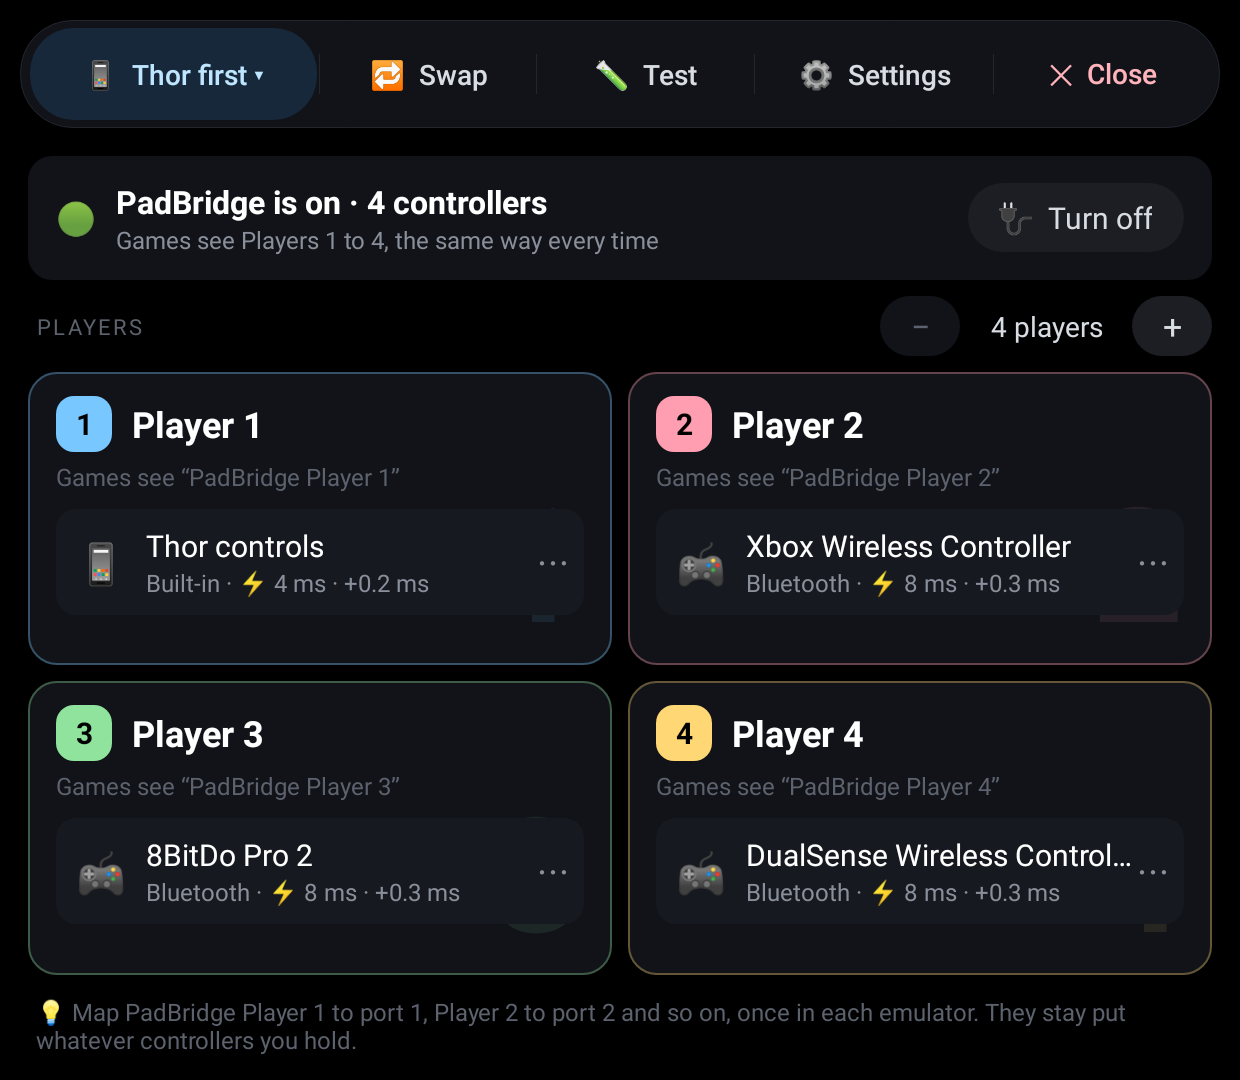
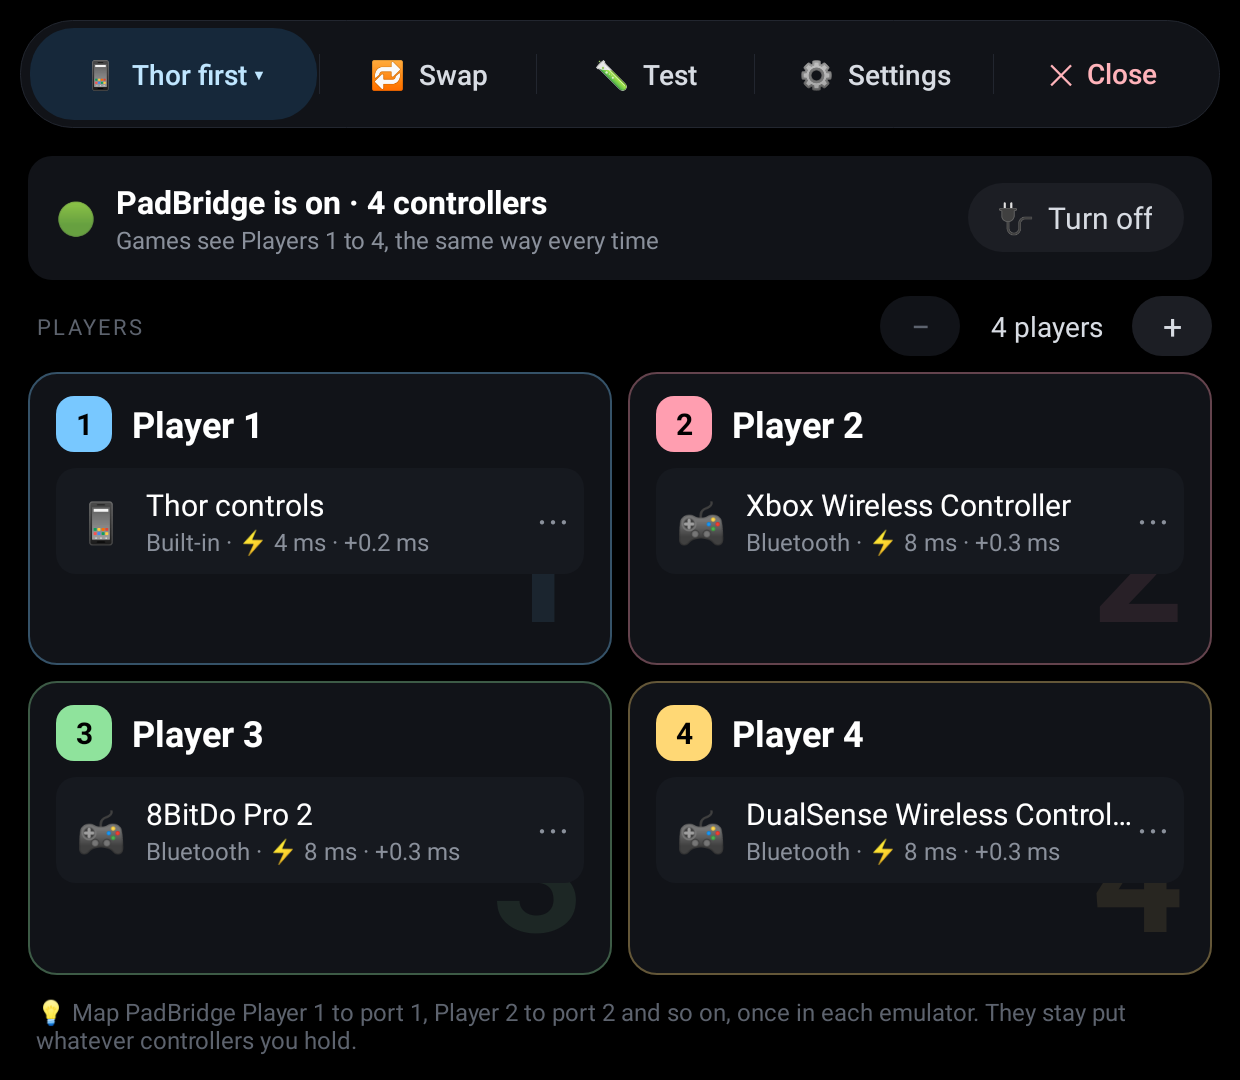
1.0.2: every players change reaches the engine; roomier compact cards (#3)
* PadBridge 1.0: Thor controls and external controllers at once, with fixed players

A Shizuku-started engine takes over the Thor's built-in controls and any
connected controllers and drives virtual "PadBridge Player 1-4" pads made
with Android's uinput tool, so emulators keep one mapping whatever
controller is in use. Thor first / Controller first / Both Player 1 modes,
Swap, per-controller pins and Nintendo layout, a live controller test on
the top screen, and ThorPad-style Settings, haptics and updates.

Claude-Session: https://claude.ai/code/session_01QHzaHtdzWEgjSKUpixgTQA

* Up to 8 players: player grid, players stepper, tap-two swap, number chips

- MAX_PLAYERS 4 -> 8, with eight player colors
- Main screen: 2 side by side, 3 in a row, 4 in a square, 5-8 in two rows of mini cards
- PLAYERS - / + sets how many player pads are always ready; the engine removes spare pads when lowered
- Swap with more than two players: tap two players to swap (pins their controllers)
- Controller menu: a numbered chip per player instead of a long list
- Test screen fits up to 8 pads; engine test for an 8-player party
- README, release notes and screenshots (four, eight, swap)

Claude-Session: https://claude.ai/code/session_01QHzaHtdzWEgjSKUpixgTQA

* Rumble, per-controller settings, speed readout, About and license

- Rumble: player pads register with ff_effects_max; the engine reads the uinput tool's
[…]

diff --git a/app/src/main/java/com/padbridge/Engine.java b/app/src/main/java/com/padbridge/Engine.java
@@ -29,7 +29,7 @@ import org.json.JSONObject;
  */
 public final class Engine implements PhysicalPad.Listener, VirtualPads.Listener {
     /** Bumped when the engine changes; the app restarts an engine that doesn't match. */
-    static final int VERSION = 4;
+    static final int VERSION = 5;
     /** struct input_event: 24 bytes with 64-bit timestamps, 16 with 32-bit ones. */
     static final int EVENT_SIZE = System.getProperty("os.arch", "").contains("64") ? 24 : 16;
     private static final int BITS_PER_WORD = EVENT_SIZE == 24 ? 64 : 32;
@@ -37,7 +37,7 @@ public final class Engine implements PhysicalPad.Listener, VirtualPads.Listener 
     private final File dir, config, status, apk;
     private final VirtualPads players;
     private Routing.Config cfg = new Routing.Config();
-    private long configStamp = -1;
+    private String configText = "";
     /** Fewer players were asked for: remove the spare player pads on the next route. */
     private boolean fewerPlayers;
     /** Controllers by node, in the order they connected. */
@@ -156,13 +156,14 @@ public final class Engine implements PhysicalPad.Listener, VirtualPads.Listener 
         System.exit(0);
     }
 
-    /** True when config.json changed. */
+    /**
+     * True when config.json changed. Compared by content: the shared storage it lives on can
+     * keep whole-second times, so two changes in one second (− tapped twice) look like one.
+     */
     private boolean loadConfig() {
-        long stamp = config.lastModified();
-        if (stamp == configStamp) return false;
-        configStamp = stamp;
         String text = read(config);
-        if (text == null) return false;
+        if (text == null || text.equals(configText)) return false;
+        configText = text;
         Routing.Config next = Routing.Config.fromJson(text);
         synchronized (this) {
             if (next.keepPlayers < cfg.keepPlayers) fewerPlayers = true;

diff --git a/app/src/main/java/com/padbridge/MainActivity.java b/app/src/main/java/com/padbridge/MainActivity.java
@@ -431,7 +431,7 @@ public class MainActivity extends Activity implements ShizukuClient.Listener {
         nlp.leftMargin = (int) ((mini ? 7 : 10) * d);
         head.addView(name, nlp);
         c.addView(head);
-        if (!mini) {
+        if (!compact) {
             TextView sees = Ui.plain(this, "Games see “PadBridge Player " + p + "”", 12, Ui.DIM);
             sees.setPadding(0, (int) (4 * d), 0, (int) (8 * d));
             sees.setSingleLine(true);

diff --git a/release/notes.md b/release/notes.md
@@ -1,7 +1,8 @@
-🧹 PadBridge 1.0.1: no more duplicate player pads in your emulators.
+🔢 PadBridge 1.0.2: the number of players always matches what you pick.
 
-## ✨ What's new in 1.0.1
-- 🧹 **No duplicate players:** when PadBridge's engine restarted (after changing the number of players, turning it off and on, or an update), the old player pads could stay behind, so emulators like Eden listed "PadBridge Player 1" more than once. PadBridge now unplugs them when it stops, and clears any leftovers when it starts
+## ✨ What's new in 1.0.2
+- 🔢 **Players match:** tapping **−** or **+** quickly could leave PadBridge's engine a step behind, so games saw 5 players while PadBridge showed 4. Every change now reaches the engine
+- 🃏 **Roomier player cards:** with three or four players, the cards drop the "Games see…" line so the controller fits, even with bigger system text
 
 ---
 
@@ -20,6 +21,7 @@ PadBridge bridges the Thor's controls and your controllers onto steady player co
 - 🔄 **Updates:** check, see what's new, and install from Settings, or reinstall the current release
 
 ## 📜 Release history
+- **1.0.2:** the number of players always matches, and roomier player cards
 - **1.0.1:** no more duplicate player pads
 - **1.0:** first release: the Thor's controls and your controllers as fixed players, up to 8, with rumble
 
